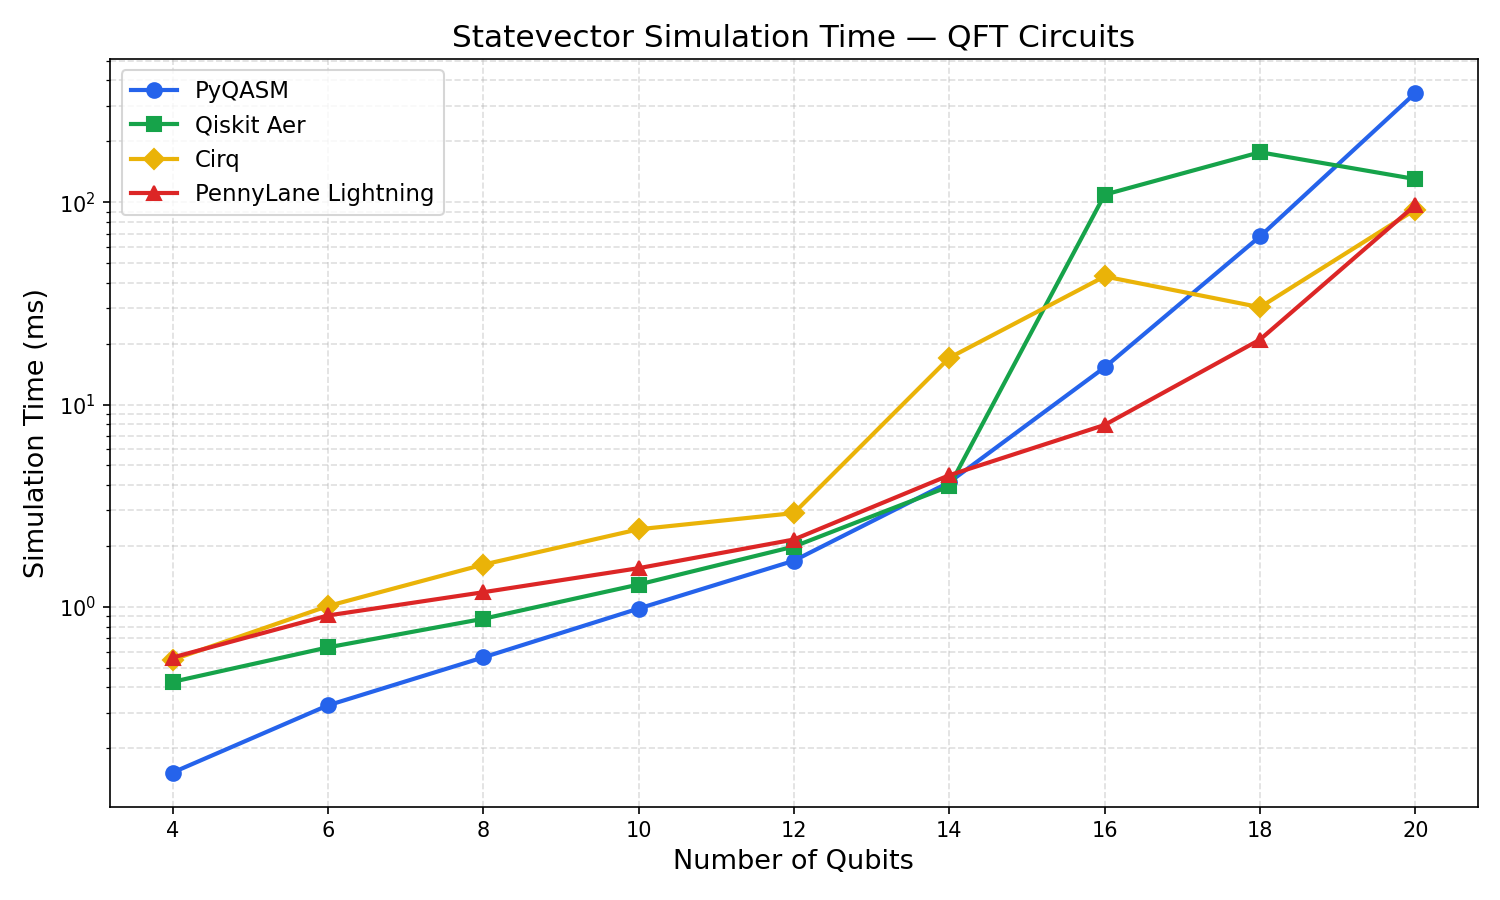
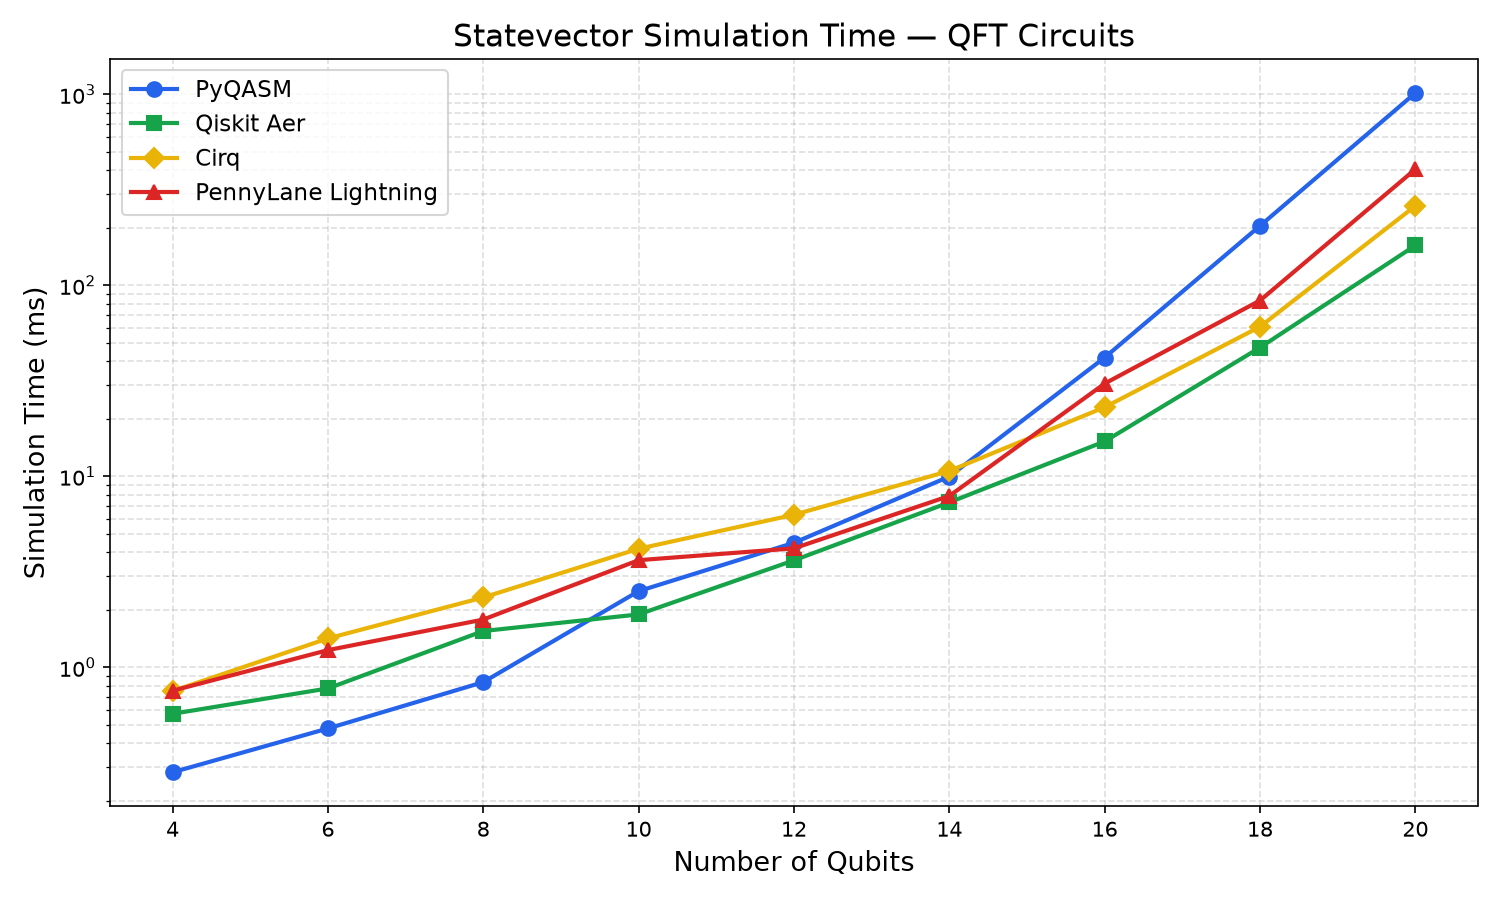
bench: regenerate bench_qft.png for the corrected QFT circuit
The QFT generator now emits an X layer plus rz(t/2) per crz (456e91c), so the
committed plot no longer matched the circuit it claims to measure. Regenerated
with the documented command:

  NUMBA_DISABLE_CACHE=1 PYQASM_NUM_THREADS=1 python benchmarks/plot_benchmarks.py

Measured on an Apple M1 Pro with a serial build (macOS disables OpenMP by
default), so absolute timings are not comparable to bench_random.png, which is
left alone: the random generator did not change and none of its configs
contains an idle qubit, so removing remove_idle_qubits() did not affect it.
README notes the split.

diff --git a/benchmarks/README.md b/benchmarks/README.md
@@ -58,6 +58,12 @@ each backend's `prepare_*` step and excluded from the measured time. Reported
 numbers are the median of `N_REPEATS` runs (default 5; `--quick` uses 2,
 `--repeats N` overrides).
 
+The two committed plots were measured on different machines, so compare
+backends within a plot, never timings across the two: `bench_qft.png` is from
+an Apple M1 Pro (serial build — macOS disables OpenMP by default) and
+`bench_random.png` predates it. Each plot is internally consistent: every
+backend in it was measured in one run on one host.
+
 ## Provenance of the `*_evolved` files
 
 `bench_evolved.json`, `bench_qft_evolved.png`, and `bench_random_evolved.png`
